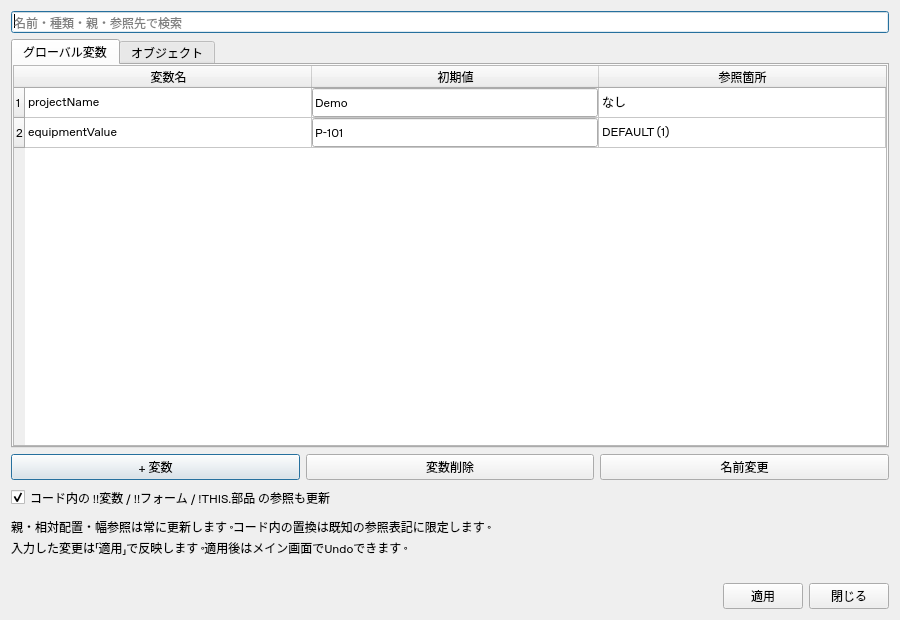
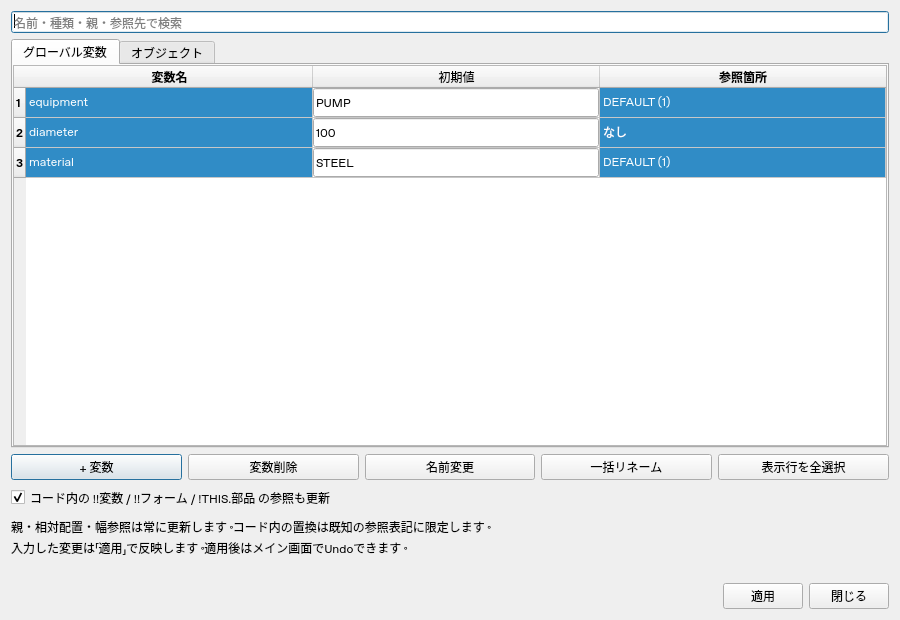
Add transactional bulk renaming with editable preview in name manager

diff --git a/e3d_designer/name_manager.py b/e3d_designer/name_manager.py
@@ -2,8 +2,8 @@
 import copy
 from PySide6.QtCore import Qt,Signal
 from PySide6.QtWidgets import (QDialog,QVBoxLayout,QHBoxLayout,QLabel,QLineEdit,QTabWidget,
-    QTableWidget,QTableWidgetItem,QHeaderView,QPushButton,QCheckBox,QInputDialog)
-from .names import actual_name,reference_locations,rename
+    QTableWidget,QTableWidgetItem,QHeaderView,QPushButton,QCheckBox,QInputDialog,QSpinBox,QAbstractItemView)
+from .names import actual_name,reference_locations,rename,rename_many
 
 
 class ValueEditor(QLineEdit):
@@ -26,7 +26,7 @@ class NameManager(QDialog):
         self.objects = self.make_table(['種類','オブジェクト名','PML名','親','参照箇所'])
         self.tabs.addTab(self.variables,'グローバル変数');self.tabs.addTab(self.objects,'オブジェクト')
         buttons = QHBoxLayout()
-        for text,handler in (('+ 変数',self.add_variable),('変数削除',self.delete_variable),('名前変更',self.rename_selected)):
+        for text,handler in (('+ 変数',self.add_variable),('変数削除',self.delete_variable),('名前変更',self.rename_selected),('一括リネーム',self.bulk_rename),('表示行を全選択',self.select_visible)):
             button=QPushButton(text);button.clicked.connect(handler);buttons.addWidget(button)
         layout.addLayout(buttons)
         self.update_code=QCheckBox('コード内の !!変数 / !!フォーム / !THIS.部品 の参照も更新')
@@ -42,6 +42,8 @@ class NameManager(QDialog):
     def make_table(self, headers):
         table=QTableWidget(0,len(headers));table.setHorizontalHeaderLabels(headers)
         table.horizontalHeader().setSectionResizeMode(QHeaderView.Stretch)
+        table.setSelectionBehavior(QAbstractItemView.SelectRows)
+        table.setSelectionMode(QAbstractItemView.ExtendedSelection)
         return table
 
     def locations(self, kind, name):
@@ -109,6 +111,32 @@ class NameManager(QDialog):
         name,ok=QInputDialog.getText(self,'名前変更','新しい名前',text=old)
         if ok:self.rename_entry(kind,key,name)
 
+    def select_visible(self):
+        table=self.tabs.currentWidget()
+        table.clearSelection()
+        for row in range(table.rowCount()):
+            if not table.isRowHidden(row):
+                for col in range(table.columnCount()):
+                    item=table.item(row,col)
+                    if item:item.setSelected(True)
+
+    def selected_entries(self):
+        table=self.tabs.currentWidget()
+        rows=sorted({item.row() for item in table.selectedItems() if not table.isRowHidden(item.row())})
+        if table is self.variables:
+            return [('variable',table.item(row,0).text(),table.item(row,0).text()) for row in rows]
+        return [(*self.object_keys[row],table.item(row,1).text()) for row in rows]
+
+    def bulk_rename(self):
+        entries=self.selected_entries()
+        if not entries:
+            self.status.setText('変更する行を選択してください。Ctrl / Shift で複数選択できます。');return
+        dialog=BulkRenameDialog(self,entries)
+        if dialog.exec()==QDialog.Accepted:
+            self.draft=dialog.result_form
+            self.rebuild();self.status.setText('一括リネームの候補を反映しました。「適用」でプロジェクトに反映します。')
+        dialog.deleteLater()
+
     def rename_entry(self, kind, key, name):
         try:self.draft=rename(self.draft,kind,key,name,self.update_code.isChecked())
         except ValueError as error:self.status.setText(str(error));return False
@@ -120,3 +148,61 @@ class NameManager(QDialog):
         if self.owner.form!=self.draft:
             self.owner.checkpoint();self.owner.form=copy.deepcopy(self.draft);self.owner.refresh()
         self.status.setText('適用しました。保存はメイン画面の「保存」で行います。');return True
+
+
+class BulkRenameDialog(QDialog):
+    """Editable rename preview; the manager and project remain unchanged until accepted."""
+    def __init__(self, manager, entries):
+        super().__init__(manager)
+        self.source=copy.deepcopy(manager.draft);self.entries=entries
+        self.update_code=manager.update_code.isChecked();self.result_form=None
+        self.setWindowTitle('一括リネーム');self.resize(820,580)
+        layout=QVBoxLayout(self)
+        note=QLabel('選択した行を上から順に処理します。候補は表で直接編集できます。\n「候補を生成」は手入力した候補を置き換えます。');note.setWordWrap(True);layout.addWidget(note)
+        self.prefix=QLineEdit();self.suffix=QLineEdit();self.find=QLineEdit();self.replacement=QLineEdit()
+        for labels,editors in ((('接頭辞','接尾辞'),(self.prefix,self.suffix)),(('置換する文字','置換後の文字'),(self.find,self.replacement))):
+            row=QHBoxLayout()
+            for label,editor in zip(labels,editors):row.addWidget(QLabel(label));row.addWidget(editor)
+            layout.addLayout(row)
+        row=QHBoxLayout();self.numbered=QCheckBox('連番にする');self.base=QLineEdit('item')
+        self.start=QSpinBox();self.start.setRange(0,999999);self.start.setValue(1)
+        self.digits=QSpinBox();self.digits.setRange(1,6);self.digits.setValue(2)
+        for widget in (self.numbered,QLabel('基本名'),self.base,QLabel('開始'),self.start,QLabel('桁数'),self.digits):row.addWidget(widget)
+        layout.addLayout(row)
+        generate=QPushButton('候補を生成');generate.clicked.connect(self.generate);layout.addWidget(generate)
+        self.table=QTableWidget(len(entries),3);self.table.setHorizontalHeaderLabels(['種類','現在の名前','変更後の名前'])
+        self.table.horizontalHeader().setSectionResizeMode(QHeaderView.Stretch)
+        for row,(kind,key,name) in enumerate(entries):
+            for col,value in enumerate((kind,name,name)):
+                item=QTableWidgetItem(value)
+                if col<2:item.setFlags(item.flags() & ~Qt.ItemIsEditable)
+                self.table.setItem(row,col,item)
+        layout.addWidget(self.table);self.status=QLabel();self.status.setWordWrap(True);layout.addWidget(self.status)
+        footer=QHBoxLayout();footer.addStretch()
+        self.confirm=QPushButton('管理画面へ反映');self.confirm.clicked.connect(self.accept)
+        cancel=QPushButton('キャンセル');cancel.clicked.connect(self.reject)
+        footer.addWidget(self.confirm);footer.addWidget(cancel);layout.addLayout(footer)
+        self.table.itemChanged.connect(self.validate_preview);self.validate_preview()
+
+    def generate(self):
+        self.table.blockSignals(True)
+        for row,(_,_,old) in enumerate(self.entries):
+            name=(self.base.text()+str(self.start.value()+row).zfill(self.digits.value())) if self.numbered.isChecked() else old
+            if self.find.text():name=name.replace(self.find.text(),self.replacement.text())
+            self.table.item(row,2).setText(self.prefix.text()+name+self.suffix.text())
+        self.table.blockSignals(False);self.validate_preview()
+
+    def validate_preview(self, *args):
+        changes=[(kind,key,self.table.item(row,2).text()) for row,(kind,key,_) in enumerate(self.entries)]
+        self.result_form=None
+        try:
+            result=rename_many(self.source,changes,self.update_code)
+        except ValueError as error:
+            self.status.setText('反映できません: '+str(error));self.confirm.setEnabled(False);return
+        count=sum(name!=old for (_,_,name),(_,_,old) in zip(changes,self.entries))
+        self.result_form=result;self.confirm.setEnabled(count>0)
+        self.status.setText(f'{count} 件の名前を変更します。参照の更新: '+('有効' if self.update_code else '無効'))
+
+    def accept(self):
+        self.validate_preview()
+        if self.confirm.isEnabled():super().accept()

diff --git a/e3d_designer/names.py b/e3d_designer/names.py
@@ -69,43 +69,70 @@ def reference_locations(form, kind, name):
     return locations
 
 
-def rename(form, kind, key, new_name, update_code=True):
-    """Return a validated new form; keep the supplied form untouched on failure."""
+def rename_many(form, changes, update_code=True):
+    """Rename symbols simultaneously, including swaps; validate before returning."""
     result = copy.deepcopy(form)
-    if kind == 'variable': old = key
-    elif kind == 'form': old = result.name
-    elif kind == 'gadget': old = result.gadgets[key].name
-    elif kind == 'menu': old = result.menus[key].name
-    else: raise ValueError('名前の種類が不正です。')
-    valid = re.fullmatch(r'_?[A-Za-z][A-Za-z0-9_]*',new_name) if kind == 'gadget' and result.gadgets[key].kind == 'option' else IDENTIFIER.fullmatch(new_name)
-    if not valid: raise ValueError('名前は英字で始まる英数字・_ にしてください。')
-    if kind == 'variable':
-        if any(name.lower()==new_name.lower() and name!=old for name in result.variables):
-            raise ValueError('変数名が重複しています。')
-        result.variables = {new_name if name==old else name:value for name,value in result.variables.items()}
-    elif kind == 'form': result.name = new_name
-    elif kind == 'menu':
-        result.menus[key].name = new_name
-        for g in result.gadgets:
-            if g.popup_menu.lower() == old.lower(): g.popup_menu = new_name
-    else:
-        result.gadgets[key].name = new_name
-        for g in result.gadgets:
-            for attribute in ('parent','xref','yref','width_ref'):
-                if getattr(g,attribute).lower()==old.lower(): setattr(g,attribute,new_name)
+    globals_map, gadgets_map, menus_map, members, methods = {}, {}, {}, {}, {}
+    selected = set()
+    for kind, key, new_name in changes:
+        if (kind,key) in selected: raise ValueError('同じ名前が複数回指定されています。')
+        selected.add((kind,key))
+        if kind == 'variable':
+            if key not in form.variables: raise ValueError('変数が見つかりません。')
+            old = key
+        elif kind == 'form': old = form.name
+        elif kind in ('gadget','menu'):
+            collection = form.gadgets if kind == 'gadget' else form.menus
+            if not isinstance(key,int) or not 0 <= key < len(collection):
+                raise ValueError('オブジェクトが見つかりません。')
+            old = collection[key].name
+        else: raise ValueError('名前の種類が不正です。')
+        valid = re.fullmatch(r'_?[A-Za-z][A-Za-z0-9_]*',new_name) if kind == 'gadget' and form.gadgets[key].kind == 'option' else IDENTIFIER.fullmatch(new_name)
+        if not valid: raise ValueError('名前は英字で始まる英数字・_ にしてください。')
+        if kind == 'variable': globals_map[old.lower()] = new_name
+        elif kind == 'form':
+            globals_map[old.lower()] = new_name
+            result.name = new_name
+        elif kind == 'menu':
+            result.menus[key].name = new_name
+            menus_map[old.lower()] = new_name
+            members[old.lower()] = new_name
+        else:
+            result.gadgets[key].name = new_name
+            gadgets_map[old.lower()] = new_name
+            members[actual_name(form.gadgets[key]).lower()] = actual_name(result.gadgets[key])
+            if form.gadgets[key].kind == 'container': members[(old+'Control').lower()] = new_name+'Control'
+            g = form.gadgets[key]
+            if g.kind == 'list' and g.list_mode == 'TABLE' and not g.table_method:
+                methods[('populate_'+old).lower()] = 'populate_'+new_name
+    variable_names = [globals_map.get(name.lower(),name) for name in form.variables]
+    if len({name.lower() for name in variable_names}) != len(variable_names):
+        raise ValueError('変数名が重複しています。')
+    result.variables = dict(zip(variable_names,form.variables.values()))
+    for g in result.gadgets:
+        for attribute in ('parent','xref','yref','width_ref'):
+            old = getattr(g,attribute)
+            setattr(g,attribute,gadgets_map.get(old.lower(),old))
+        g.popup_menu = menus_map.get(g.popup_menu.lower(),g.popup_menu)
     if update_code:
-        replacements = [(old,new_name)]
-        if kind == 'gadget':
-            old_gadget,new_gadget = form.gadgets[key],result.gadgets[key]
-            replacements = [(actual_name(old_gadget),actual_name(new_gadget))]
-            if old_gadget.kind == 'container': replacements.append((old+'Control',new_name+'Control'))
-        for source,target in replacements:
-            pattern = reference_pattern(form,kind,source)
-            for _,owner,attribute in code_slots(result):
-                write_slot(owner,attribute,pattern.sub(lambda match: match.group(0)[:-len(source)]+target,read_slot(owner,attribute)))
-        if kind == 'gadget' and form.gadgets[key].kind == 'list' and form.gadgets[key].list_mode == 'TABLE' and not form.gadgets[key].table_method:
-            pattern = re.compile(r'((?:!this|!!'+re.escape(form.name)+r')\.)populate_'+re.escape(old)+r'(?![A-Za-z0-9_])',re.I)
-            for _,owner,attribute in code_slots(result):
-                write_slot(owner,attribute,pattern.sub(lambda match:match.group(1)+'populate_'+new_name,read_slot(owner,attribute)))
+        # Consume qualified references and globals together so swaps cannot cascade.
+        pattern = re.compile(r'(!this|!![A-Za-z][A-Za-z0-9_]*)(?:\.([A-Za-z_][A-Za-z0-9_]*))?',re.I)
+        for _,owner,attribute in code_slots(result):
+            value = read_slot(owner,attribute)
+            def replace(match):
+                prefix,member = match.groups()
+                own = prefix.lower() in ('!this','!!'+form.name.lower())
+                target_prefix = prefix if prefix.lower() == '!this' else '!!'+globals_map.get(prefix[2:].lower(),prefix[2:])
+                if member is None: return target_prefix
+                target_member = member
+                if own:
+                    method_call = value[match.end():].lstrip().startswith('(')
+                    target_member = methods.get(member.lower(),member) if method_call else members.get(member.lower(),methods.get(member.lower(),member))
+                return target_prefix+'.'+target_member
+            write_slot(owner,attribute,pattern.sub(replace,value))
     result.validate()
     return result
+
+
+def rename(form, kind, key, new_name, update_code=True):
+    return rename_many(form,[(kind,key,new_name)],update_code)

diff --git a/tests/test_bulk_names.py b/tests/test_bulk_names.py
@@ -1,0 +1,75 @@
+import os
+os.environ.setdefault('QT_QPA_PLATFORM','offscreen')
+import unittest
+from PySide6.QtWidgets import QApplication
+from e3d_designer.model import Form,Gadget,Menu
+from e3d_designer.names import rename_many
+from e3d_designer.name_manager import NameManager,BulkRenameDialog
+from e3d_designer.app import Window
+
+
+class BulkRenameTests(unittest.TestCase):
+    def test_simultaneous_swaps_and_structural_references(self):
+        form=Form(variables={'one':'A','two':'B'},gadgets=[Gadget(kind='frame',name='first',width=30,height=10),Gadget(kind='frame',name='second',width=30,height=10),Gadget(name='child',parent='first')],default_body='!!one = !!two\n!THIS.first.visible = !!userform.second.visible\n!this.first()')
+        result=rename_many(form,[('variable','one','two'),('variable','two','one'),('gadget',0,'second'),('gadget',1,'first')])
+        self.assertEqual(result.variables,{'two':'A','one':'B'})
+        self.assertEqual(result.gadgets[2].parent,'second')
+        self.assertEqual(result.default_body,'!!two = !!one\n!THIS.second.visible = !!userform.first.visible\n!this.first()')
+        self.assertEqual(form.gadgets[2].parent,'first')
+
+    def test_form_and_variable_swap_with_members_and_popup(self):
+        form=Form(variables={'other':'A'},gadgets=[Gadget(name='first',popup_menu='tools')],menus=[Menu(name='tools',popup=True)],default_body='!!USERFORM.first.val = !!other\n!this.tools.add()\n!!external.first.val = !!otherMore')
+        changes=[('form',None,'other'),('variable','other','userform'),('gadget',0,'second'),('menu',0,'actions')]
+        result=rename_many(form,changes)
+        self.assertEqual(result.default_body,'!!other.second.val = !!userform\n!this.actions.add()\n!!external.first.val = !!otherMore')
+        self.assertEqual(result.gadgets[0].popup_menu,'actions')
+        retained=rename_many(form,changes,False)
+        self.assertEqual(retained.default_body,form.default_body)
+        self.assertEqual(retained.gadgets[0].popup_menu,'actions')
+
+    def test_generated_members_and_helpers(self):
+        form=Form(gadgets=[Gadget(kind='container',name='host'),Gadget(kind='list',name='rows',list_mode='TABLE',headings=['Value'])],default_body='!this.hostControl.handle()\n!!userform.populate_rows()')
+        result=rename_many(form,[('gadget',0,'panel'),('gadget',1,'items')])
+        self.assertEqual(result.default_body,'!this.panelControl.handle()\n!!userform.populate_items()')
+
+    def test_failure_is_atomic(self):
+        form=Form(variables={'one':'A','two':'B'})
+        original=form.dumps()
+        for changes in ([('variable','one','two')],[('variable','one','valid'),('variable','two','bad name')],[('variable','one','a'),('variable','one','b')]):
+            with self.assertRaises(ValueError):rename_many(form,changes)
+            self.assertEqual(form.dumps(),original)
+
+
+class BulkManagerTests(unittest.TestCase):
+    @classmethod
+    def setUpClass(cls):cls.app=QApplication.instance() or QApplication([])
+    def setUp(self):
+        self.owner=Window();self.owner.form=Form(variables={'one':'A','two':'B','other':'C'},default_body='!!one = !!two')
+        self.owner.refresh();self.manager=NameManager(self.owner)
+    def tearDown(self):
+        self.manager.close();self.owner.dirty=False;self.owner.close();self.app.clipboard().clear();self.app.processEvents()
+
+    def test_filtered_selection_generation_validation_apply_undo(self):
+        self.manager.select_visible();self.manager.search.setText('one')
+        self.assertEqual(self.manager.selected_entries(),[('variable','one','one')])
+        self.manager.search.clear();self.manager.select_visible()
+        dialog=BulkRenameDialog(self.manager,self.manager.selected_entries())
+        self.assertFalse(dialog.confirm.isEnabled())
+        dialog.numbered.setChecked(True);dialog.base.setText('value');dialog.prefix.setText('p_');dialog.generate()
+        self.assertEqual(list(dialog.result_form.variables),['p_value01','p_value02','p_value03'])
+        dialog.table.item(1,2).setText('p_value01');self.assertFalse(dialog.confirm.isEnabled())
+        dialog.generate();dialog.accept();self.manager.draft=dialog.result_form
+        self.assertEqual(list(self.owner.form.variables),['one','two','other'])
+        self.manager.apply_changes();self.assertEqual(self.owner.form.default_body,'!!p_value01 = !!p_value02')
+        self.owner.undo();self.assertEqual(list(self.owner.form.variables),['one','two','other'])
+        dialog.close()
+
+    def test_preview_manual_swap_and_replace(self):
+        dialog=BulkRenameDialog(self.manager,[('variable','one','one'),('variable','two','two')])
+        dialog.table.item(0,2).setText('two');self.assertFalse(dialog.confirm.isEnabled())
+        dialog.table.item(1,2).setText('one');self.assertTrue(dialog.confirm.isEnabled())
+        self.assertEqual(dialog.result_form.default_body,'!!two = !!one')
+        dialog.find.setText('o');dialog.replacement.setText('x');dialog.suffix.setText('_new');dialog.generate()
+        self.assertEqual(list(dialog.result_form.variables),['xne_new','twx_new','other'])
+        dialog.reject();self.assertEqual(list(self.manager.draft.variables),['one','two','other'])
+        dialog.close()
